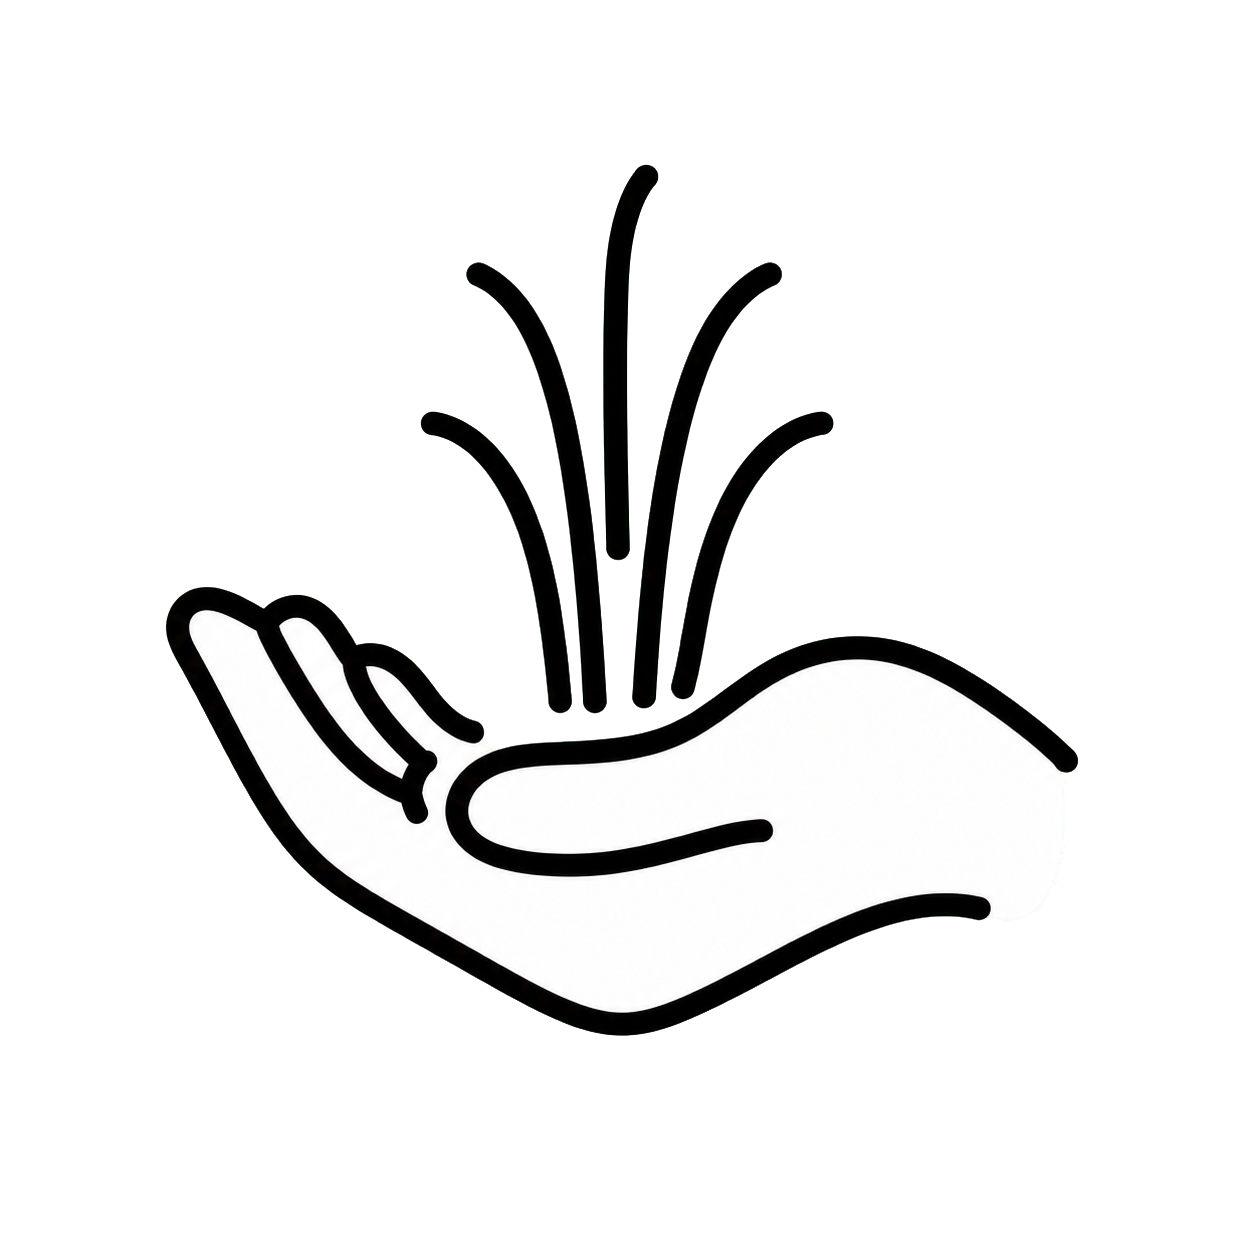
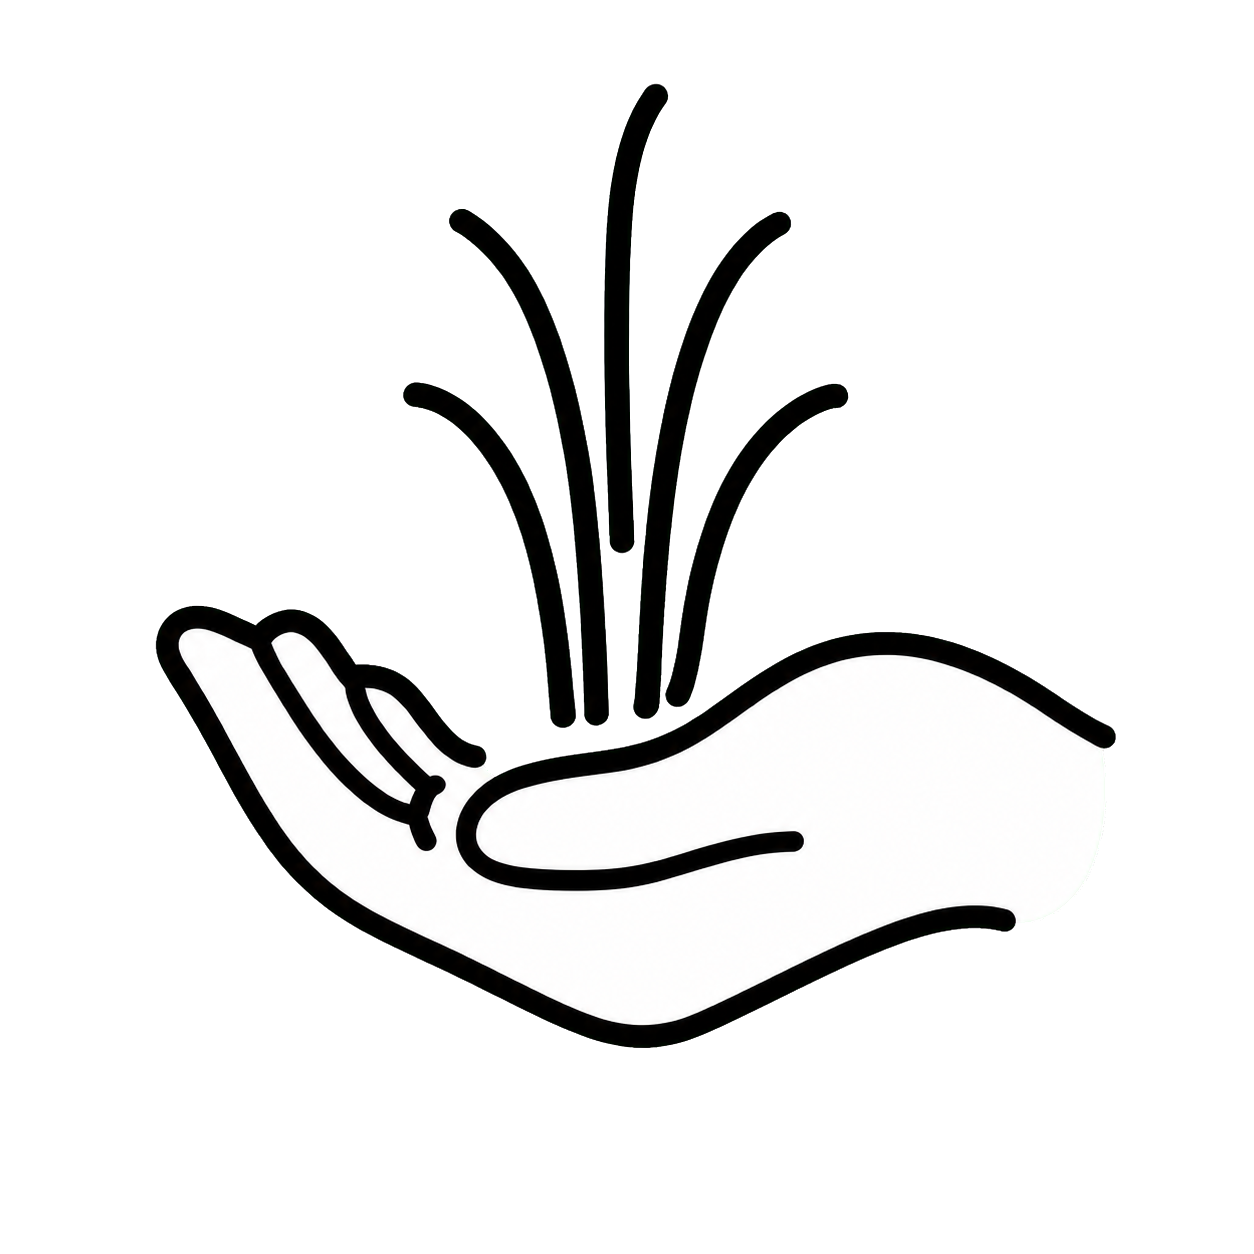
fix: preserve fountain in iPhone sticker

diff --git a/PLANS.md b/PLANS.md
@@ -108,6 +108,12 @@ Completion requires the source runtime proof, sanitized evidence, and reciprocal
   thick small-size strokes.
 - Added the downloadable `/sticker/` route and instructions for saving the PNG to Photos and choosing **Add Sticker**.
 - This is an iPhone keyboard sticker/Genmoji-adjacent asset, not a new Unicode character.
+
+## 2026-08-03 — sticker correction
+
+- Replaced the first sticker rendering because the fountain/spring was not sufficiently readable.
+- Corrected asset preserves the open hand plus the central fountain jet and four curved side jets; RGBA corners remain
+  transparent.
 # European publication compliance gate — 2026-08-03
 
 **Goal:** Require a documented European regulatory applicability decision before the Book can be called publishable.
